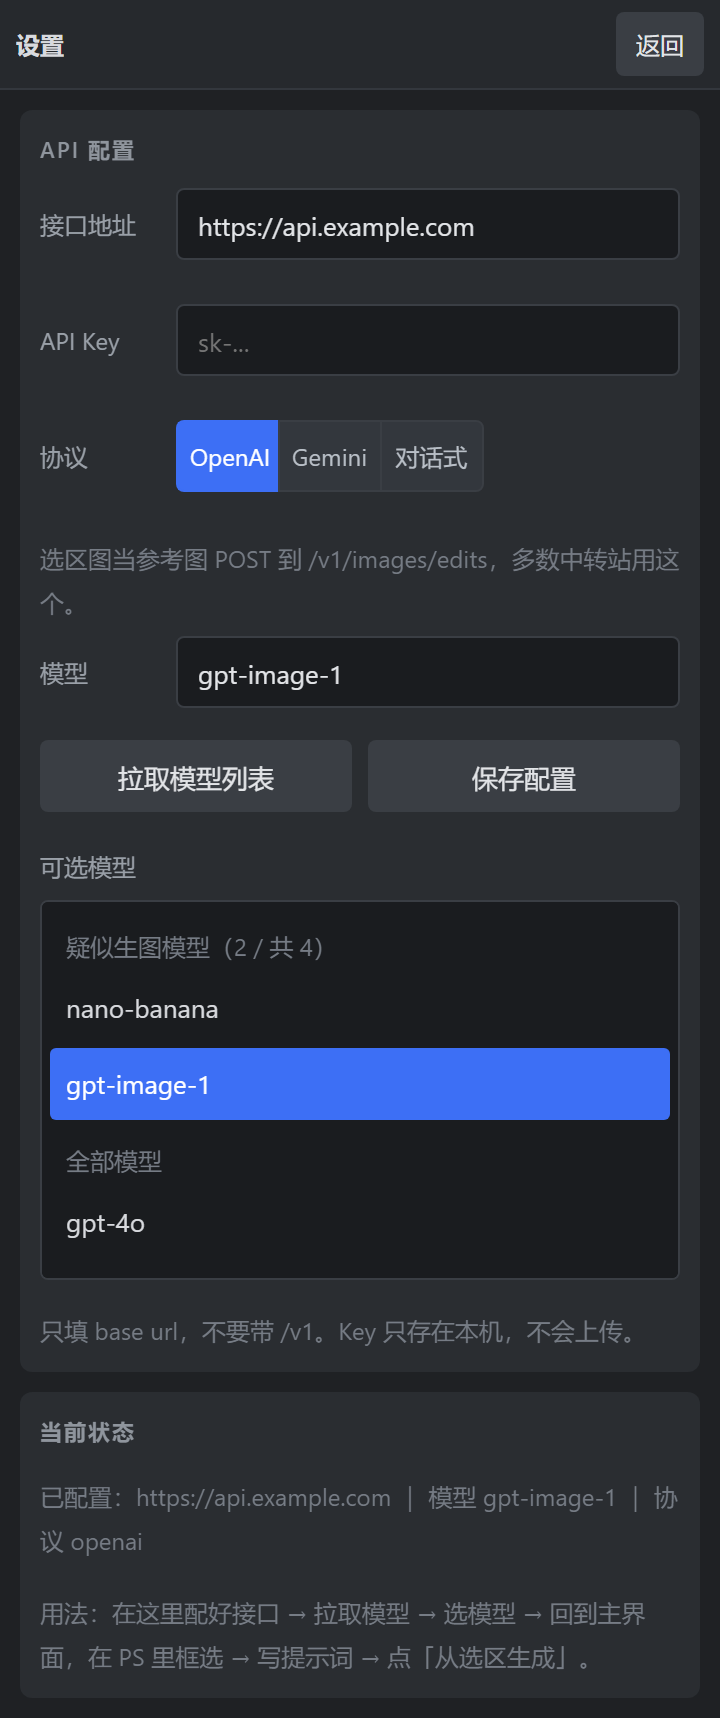
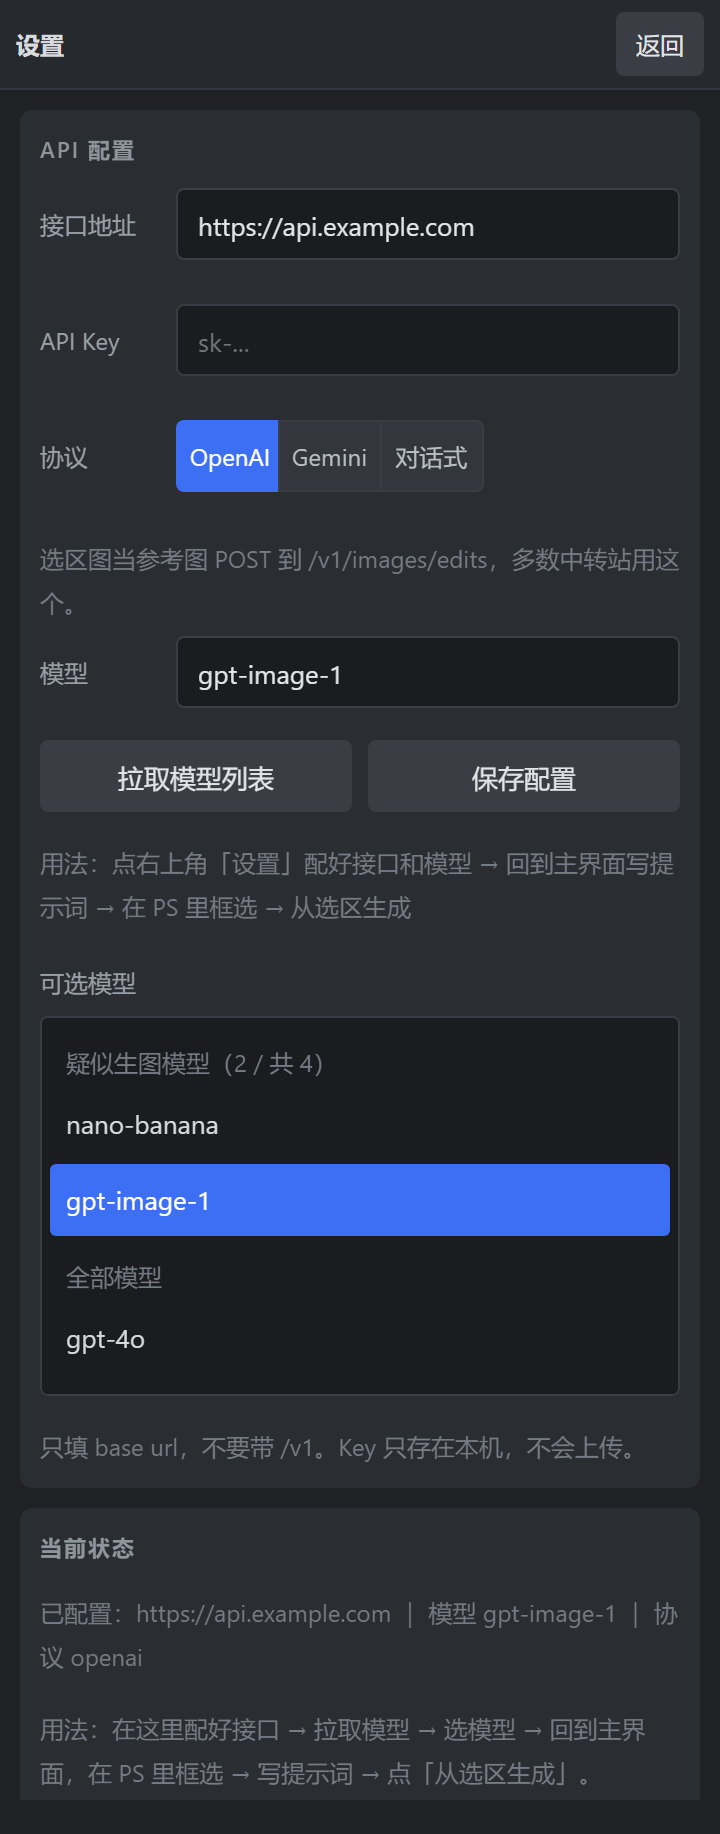
fix(ui): 设置页加即时状态行，修「点拉取模型列表没反应」；拉取加 15 秒超时与报错翻译

diff --git a/index.js b/index.js
@@ -35,6 +35,22 @@ function log(message, type) {
   line.textContent = '[' + hh + ':' + mm + ':' + ss + '] ' + message;
   box.appendChild(line);
   box.scrollTop = box.scrollHeight;
+  // 设置页打开时，主界面的日志是看不见的（两个视图互斥），
+  // 所以同一句话也要写到设置页里那行状态上，否则点按钮像「没反应」。
+  if (settingsOpen()) setState(message, type);
+}
+
+/* 设置页里的一行即时反馈：拉取/保存的结果都写在这里 */
+function setState(text, kind) {
+  var el = $('pullState');
+  if (!el) return;
+  el.textContent = text;
+  el.className = 'hint' + (kind === 'err' ? ' bad' : kind === 'ok' ? ' good' : '');
+}
+
+function settingsOpen() {
+  var p = $('settingsPanel');
+  return !!(p && String(p.className).indexOf('open') !== -1);
 }
 
 /* ------------------------------------------------------------------ */
@@ -226,26 +242,53 @@ async function onSaveConfig() {
 async function onPullModels() {
   readForm();
   if (!cfg.baseUrl) {
+    setState('先填「接口地址」，再拉取模型列表。', 'err');
     log('先填接口地址', 'err');
     return;
   }
   var btn = $('btnPullModels');
   btn.disabled = true;
   btn.textContent = '拉取中…';
+  setState('拉取中…（最多等 15 秒）');
+
+  // 拉取也要有超时：地址不通时不给超时，按钮会永远停在「拉取中…」。
+  var controller = new AbortController();
+  var timer = setTimeout(function () {
+    controller.abort();
+  }, 15000);
+
   try {
-    var key = $('apiKey').value;
-    var res = await api.listModels({ baseUrl: cfg.baseUrl, apiKey: key });
+    var res = await api.listModels({ baseUrl: cfg.baseUrl, apiKey: $('apiKey').value }, controller.signal);
     modelsAll = res.ids;
     var likely = api.prioritizeImageModels(modelsAll);
     renderModelList(likely, modelsAll);
-    log('拉取成功（' + res.source + '），共 ' + modelsAll.length + ' 个模型', 'ok');
+    log('拉取成功（' + res.source + '），共 ' + modelsAll.length + ' 个模型，点下面的列表选一个', 'ok');
   } catch (e) {
-    log('拉取失败：' + e.message, 'err');
+    var msg = e && e.message ? e.message : String(e);
+    if (controller.signal.aborted) {
+      msg = '等了 15 秒没回应：地址不通、网络被挡，或 Key 无效';
+    } else {
+      msg = friendlyNetError(msg, cfg.baseUrl);
+    }
+    log('拉取失败：' + msg, 'err');
   } finally {
+    clearTimeout(timer);
     btn.disabled = false;
     btn.textContent = '拉取模型列表';
     updateApiState();
   }
+}
+
+/* 把底层报错翻成人看得懂的话。UXP 里地址不通时原话就是一句 "Failed to fetch"，
+   对着这句话没人知道该改什么。 */
+function friendlyNetError(msg, baseUrl) {
+  var m = String(msg || '');
+  if (/failed to fetch|network ?error|econnrefused|enotfound|getaddrinfo|dns|socket|refused/i.test(m)) {
+    return '连不上 ' + baseUrl + ' —— 检查地址是不是写错了（只写到域名，不要带 /v1），或者网络被挡了';
+  }
+  if (/abort/i.test(m)) return '请求被取消';
+  if (/json/i.test(m)) return '连上了，但返回的不是模型列表（' + m + '）';
+  return m;
 }
 
 /* ---- 模型列表（自绘列表，点一行即选中） ---------------------------- */

diff --git a/index.html b/index.html
@@ -190,6 +190,8 @@
     /* padding-top 不是装饰：UXP 里块级文字的首行会被上沿裁掉一两个像素，
        留一点顶部内边距，字才完整。 */
     .hint { color: #767c85; font-size: 11px; margin-top: 4px; padding-top: 6px; line-height: 20px; }
+    .hint.good { color: #79c48a; }
+    .hint.bad { color: #e0857c; }
     /* 设置页单独放宽：这一页是配一次就不常来的，可以滚动，
        所以行距、控件高度都给足，别让人点不中输入框、看不清字。
        主界面的紧凑尺寸不受影响（那里要挤下任务队列和日志）。 */
@@ -350,6 +352,9 @@
             <button id="btnPullModels">拉取模型列表</button>
             <button id="btnSaveCfg">保存配置</button>
           </div>
+          <!-- 设置页打开时主界面的「运行日志」是看不见的，点按钮的结果必须写在这里，
+               否则拉取失败时用户什么反馈都收不到，看起来就像「点了没反应」。 -->
+          <div class="hint" id="pullState">点「拉取模型列表」，从接口读出可用模型。</div>
           <div class="sub-label">可选模型</div>
           <div id="modelList" class="model-list">
             <div class="model-item empty">（未拉取，先填地址再点「拉取模型列表」）</div>

diff --git a/CHANGELOG.md b/CHANGELOG.md
@@ -39,6 +39,13 @@
 
 ### 修复
 
+- **点「拉取模型列表」看起来没反应**：设置页打开时主界面是收起的，而所有反馈只写进主界面的
+  「运行日志」——于是拉取失败（地址不通、Key 不对）时，用户什么提示都看不到，
+  界面上只闪一下按钮文字，体感就是「点了没用」。
+  现在设置页里多一行即时状态：拉取中 / 拉取成功共几个 / 失败的具体原因，都写在按钮正下方；
+  设置页打开期间，日志里的每一条也会同步到这一行。
+  同时给拉取加了 15 秒超时（原先地址不通会一直卡在「拉取中…」），
+  并把 `Failed to fetch` 这类底层报错翻成人话（指到具体地址、并提示「只写到域名，不要带 /v1」）。
 - **多行输入框最后一行被下沿切掉**：两处原因。一是 `line-height` 写的是相对值 `1.6`，
   UXP 按宿主字号去算，算出来比浏览器大，行就落到框外；现在写成像素值 `20px`。
   二是占位提示太长，在面板宽度下折成两行，第二行正好压在下沿上；现在占位符只留
